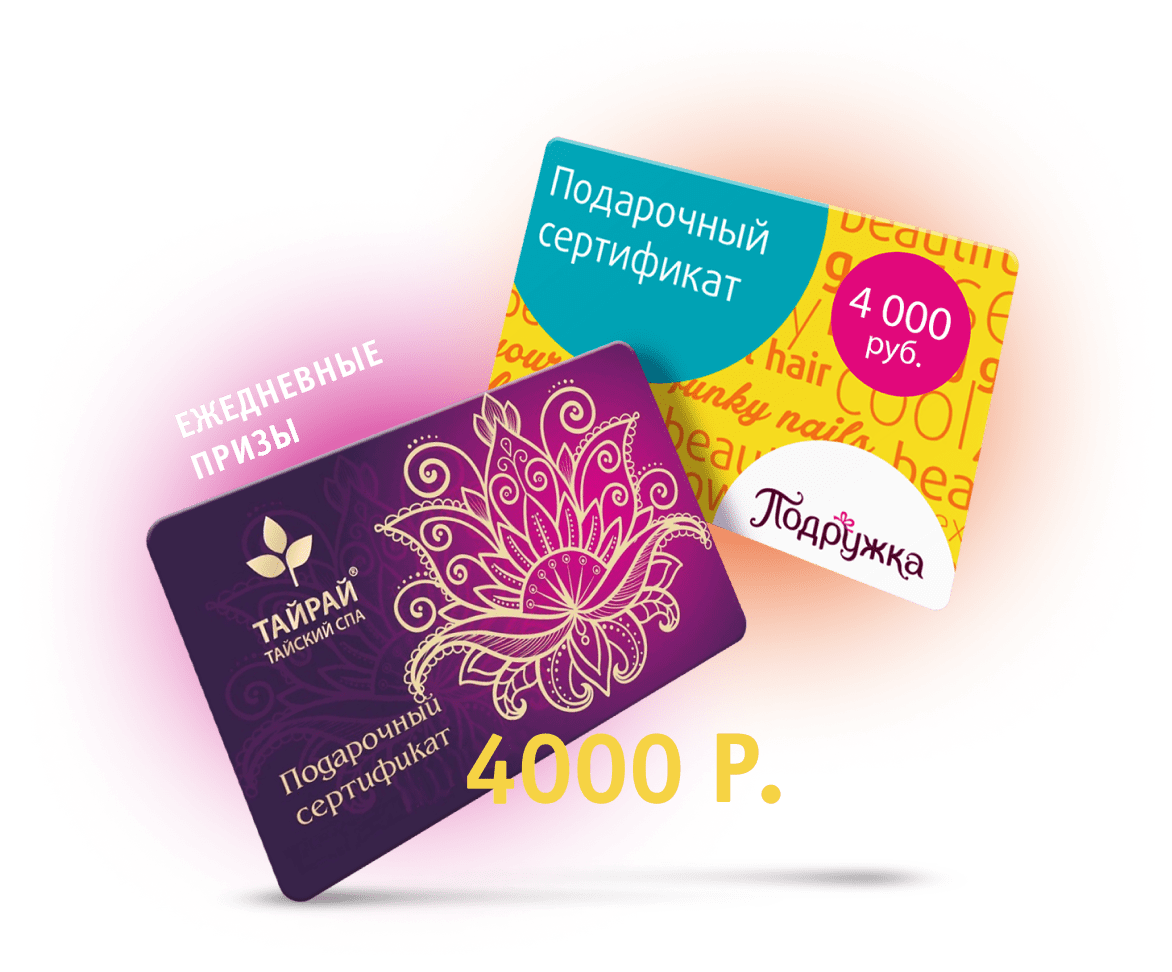
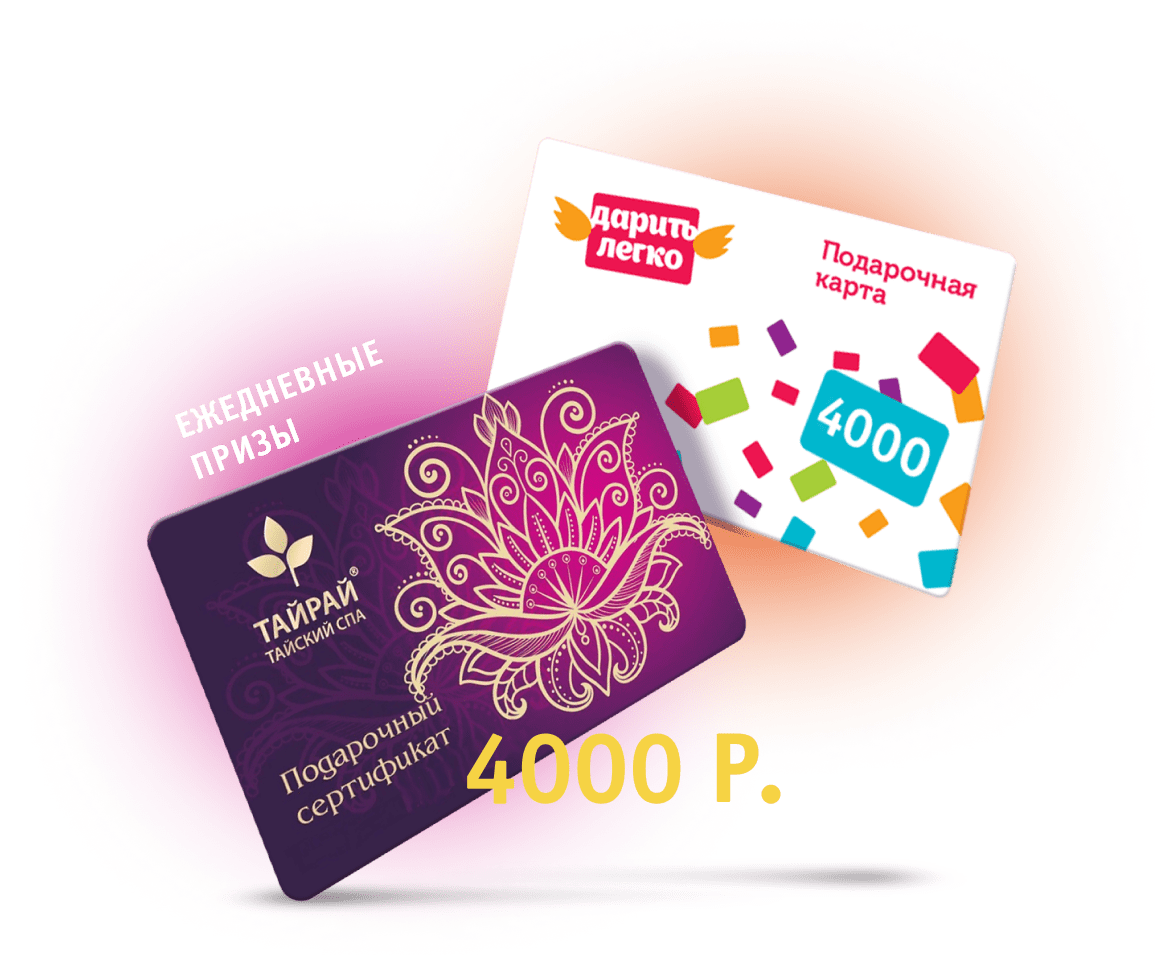
prize1 upd

diff --git a/dzen-prizes.html b/dzen-prizes.html
@@ -95,7 +95,7 @@
 							</div>
 							<div class="dzen-prize-text">
 								<span>Сертификаты в спа Тайрай</span> на 4000 р. <br>
-								или <span>в магазин «Подружка»</span> на 4000 р.
+								или <span>в магазин «Дарить легко»</span> на 4000 р.
 							</div>
 						</div>
 						<div class="dzen-prize dzen-prize2">
